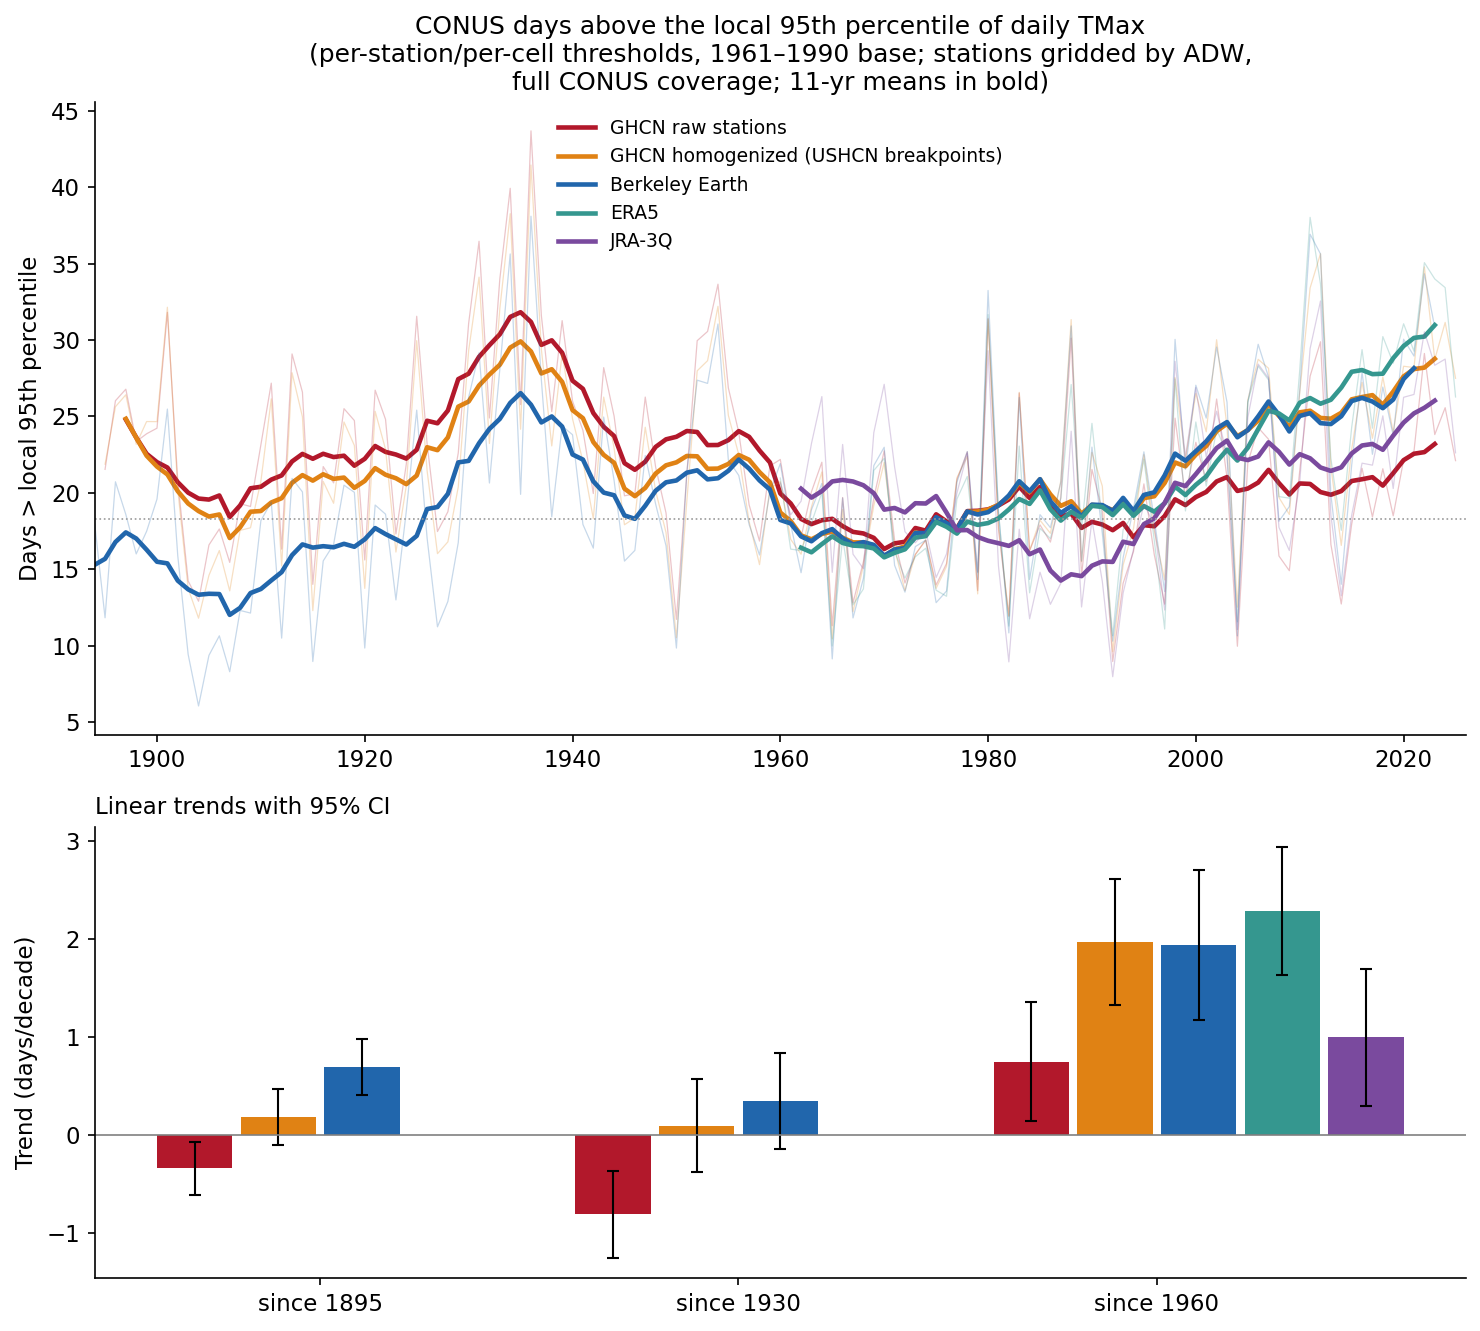
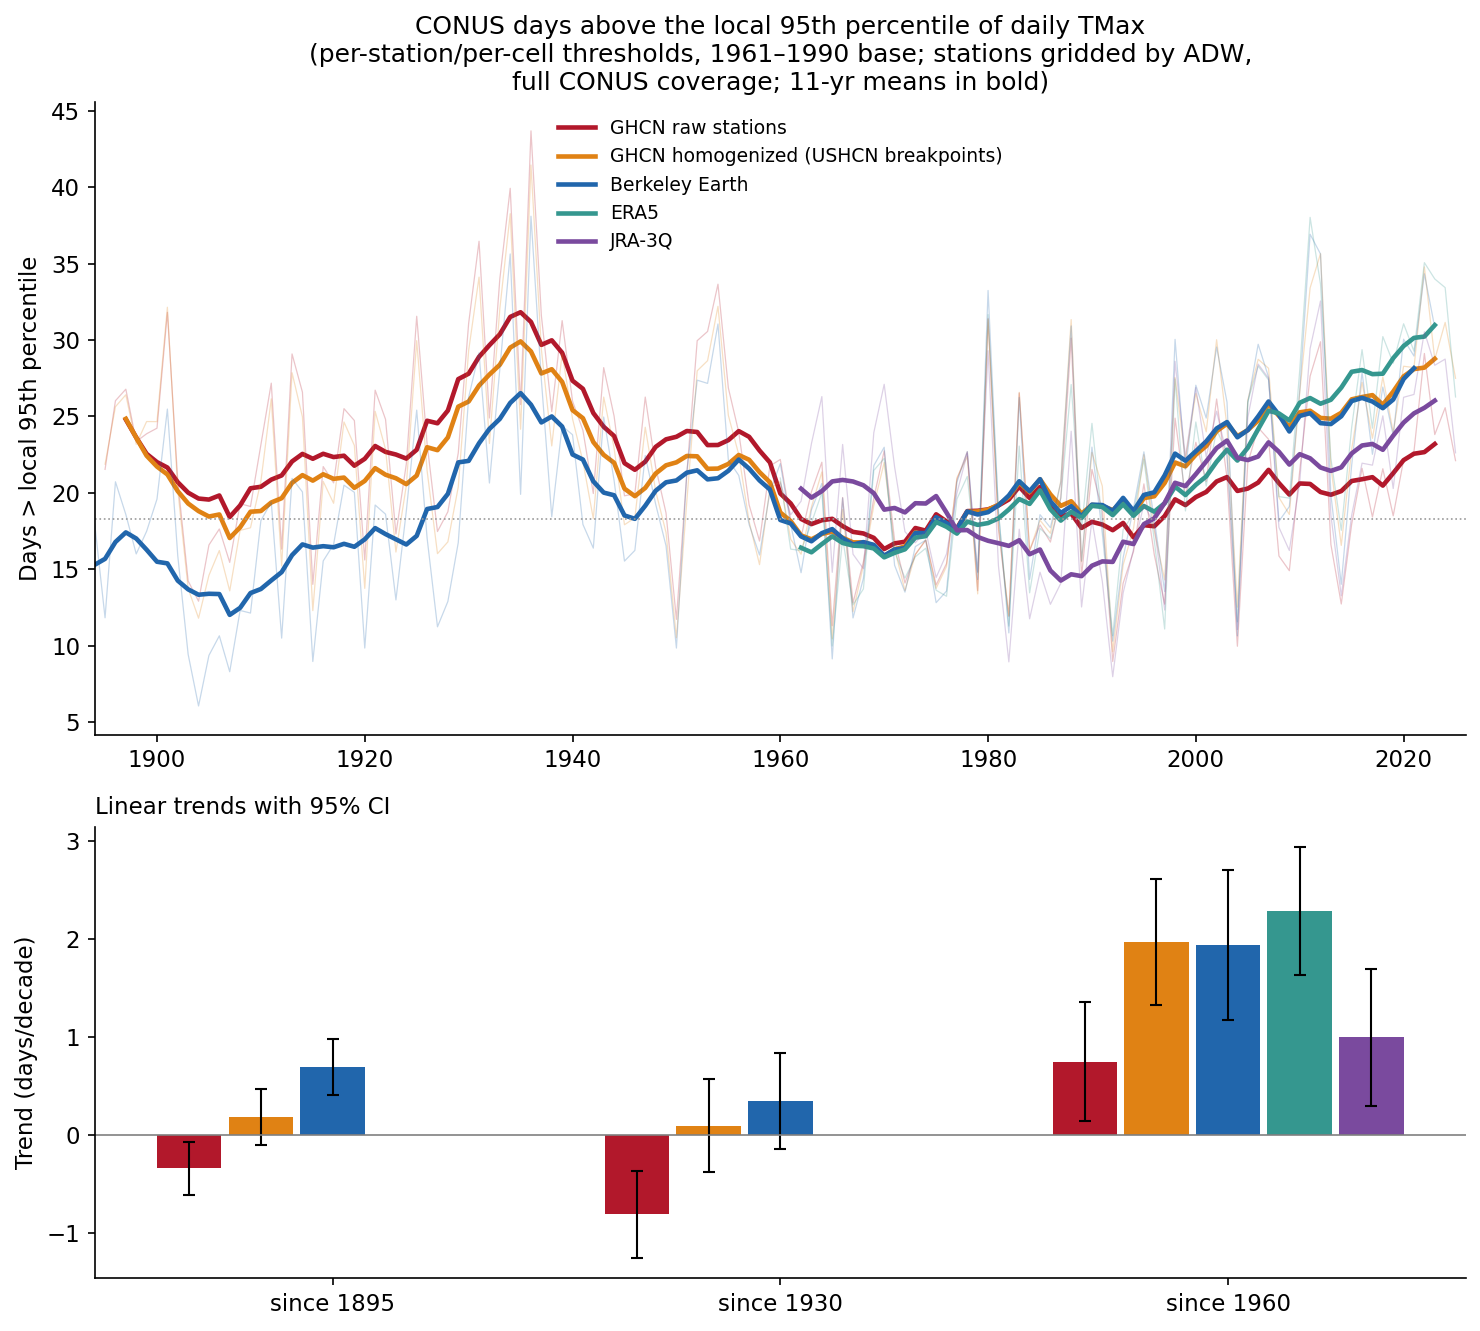
Produce p95 comparison figures with and without JRA-3Q

diff --git a/p95_comparison/scripts/trends_compare.py b/p95_comparison/scripts/trends_compare.py
@@ -68,40 +68,48 @@ for name, s in series.items():
 pd.DataFrame(rows).to_csv(f"{BASE}/results/p95_trends.csv", index=False)
 
 # ---------------- figure ----------------
-fig, axes = plt.subplots(2, 1, figsize=(10, 9),
-                         gridspec_kw={"height_ratios": [1.4, 1]})
-ax = axes[0]
-for name, s in series.items():
+def make_figure(series, fname):
+  fig, axes = plt.subplots(2, 1, figsize=(10, 9),
+                           gridspec_kw={"height_ratios": [1.4, 1]})
+  ax = axes[0]
+  for name, s in series.items():
     if len(s) == 0:
         continue
     sm = s.rolling(11, center=True, min_periods=8).mean()
     ax.plot(s.index, s.values, color=COLS[name], lw=0.6, alpha=0.25)
     ax.plot(sm.index, sm.values, color=COLS[name], lw=2.2, label=name)
-ax.axhline(18.26, color="0.6", lw=0.8, ls=":")
-ax.set_ylabel("Days > local 95th percentile")
-ax.set_title("CONUS days above the local 95th percentile of daily TMax\n"
-             "(per-station/per-cell thresholds, 1961–1990 base; stations gridded by ADW,\n"
-             "full CONUS coverage; 11-yr means in bold)", fontsize=12)
-ax.legend(frameon=False, fontsize=9)
-ax.set_xlim(1894, 2026)
+  ax.axhline(18.26, color="0.6", lw=0.8, ls=":")
+  ax.set_ylabel("Days > local 95th percentile")
+  ax.set_title("CONUS days above the local 95th percentile of daily TMax\n"
+               "(per-station/per-cell thresholds, 1961–1990 base; stations gridded by ADW,\n"
+               "full CONUS coverage; 11-yr means in bold)", fontsize=12)
+  ax.legend(frameon=False, fontsize=9)
+  ax.set_xlim(1894, 2026)
 
-ax = axes[1]
-xpos = np.arange(3)
-width = 0.2
-for k, (name, s) in enumerate(series.items()):
-    vals, errs, xs = [], [], []
-    for j, y0 in enumerate([1895, 1930, 1960]):
-        t = trend(s, y0)
-        if t is None:
-            continue
-        vals.append(t[0]); errs.append(t[1]); xs.append(j + (k - 1.5) * width)
-    ax.bar(xs, vals, width * 0.9, yerr=errs, color=COLS[name], capsize=3,
-           error_kw={"lw": 1})
-ax.axhline(0, color="0.5", lw=0.8)
-ax.set_xticks(xpos)
-ax.set_xticklabels(["since 1895", "since 1930", "since 1960"])
-ax.set_ylabel("Trend (days/decade)")
-ax.set_title("Linear trends with 95% CI", fontsize=11, loc="left")
-fig.tight_layout()
-fig.savefig(f"{BASE}/figures/p95_comparison.png", bbox_inches="tight")
-print("\nfigure written")
+  ax = axes[1]
+  xpos = np.arange(3)
+  n = len(series)
+  width = 0.8 / max(n, 1)
+  for k, (name, s) in enumerate(series.items()):
+      vals, errs, xs = [], [], []
+      for j, y0 in enumerate([1895, 1930, 1960]):
+          t = trend(s, y0)
+          if t is None:
+              continue
+          vals.append(t[0]); errs.append(t[1])
+          xs.append(j + (k - (n - 1) / 2) * width)
+      ax.bar(xs, vals, width * 0.9, yerr=errs, color=COLS[name], capsize=3,
+             error_kw={"lw": 1})
+  ax.axhline(0, color="0.5", lw=0.8)
+  ax.set_xticks(xpos)
+  ax.set_xticklabels(["since 1895", "since 1930", "since 1960"])
+  ax.set_ylabel("Trend (days/decade)")
+  ax.set_title("Linear trends with 95% CI", fontsize=11, loc="left")
+  fig.tight_layout()
+  fig.savefig(fname, bbox_inches="tight")
+  plt.close(fig)
+
+make_figure(series, f"{BASE}/figures/p95_comparison.png")
+make_figure({k: v for k, v in series.items() if k != "JRA-3Q"},
+            f"{BASE}/figures/p95_comparison_no_jra3q.png")
+print("\nfigures written (with and without JRA-3Q)")